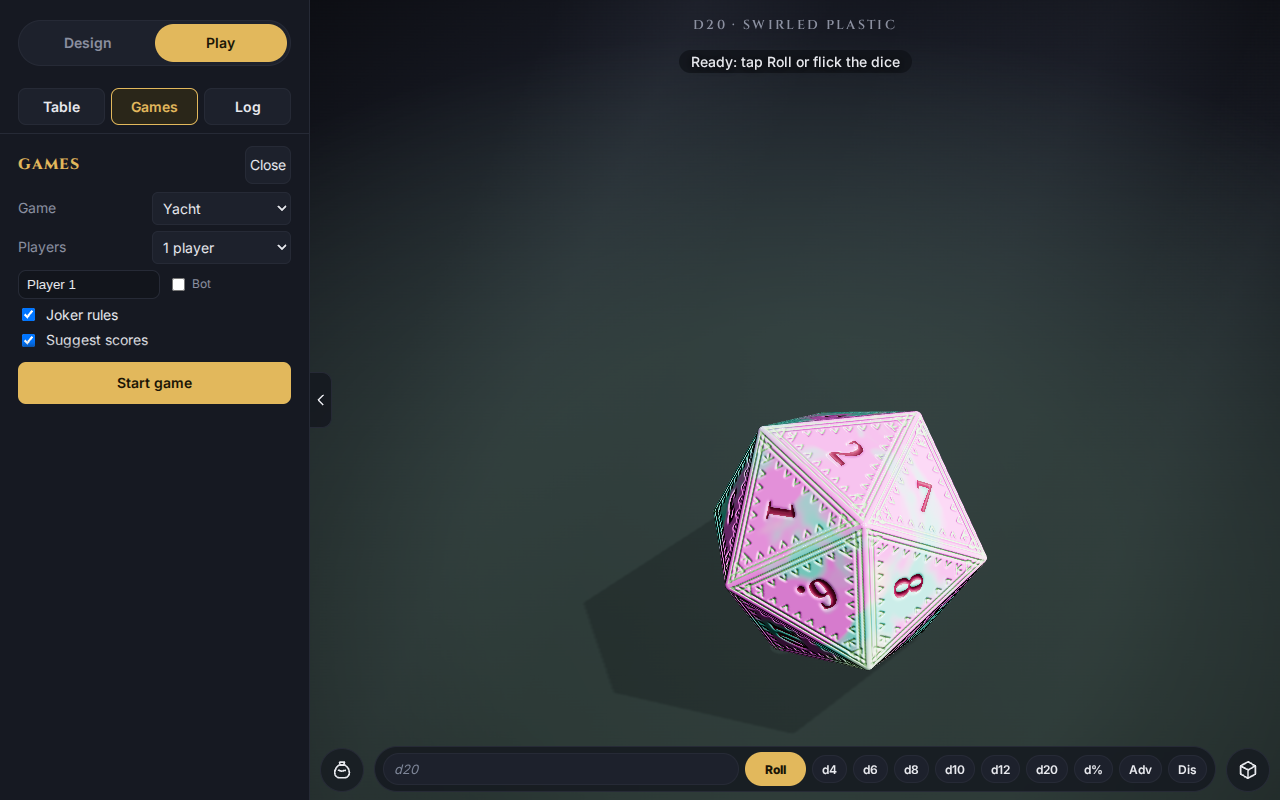
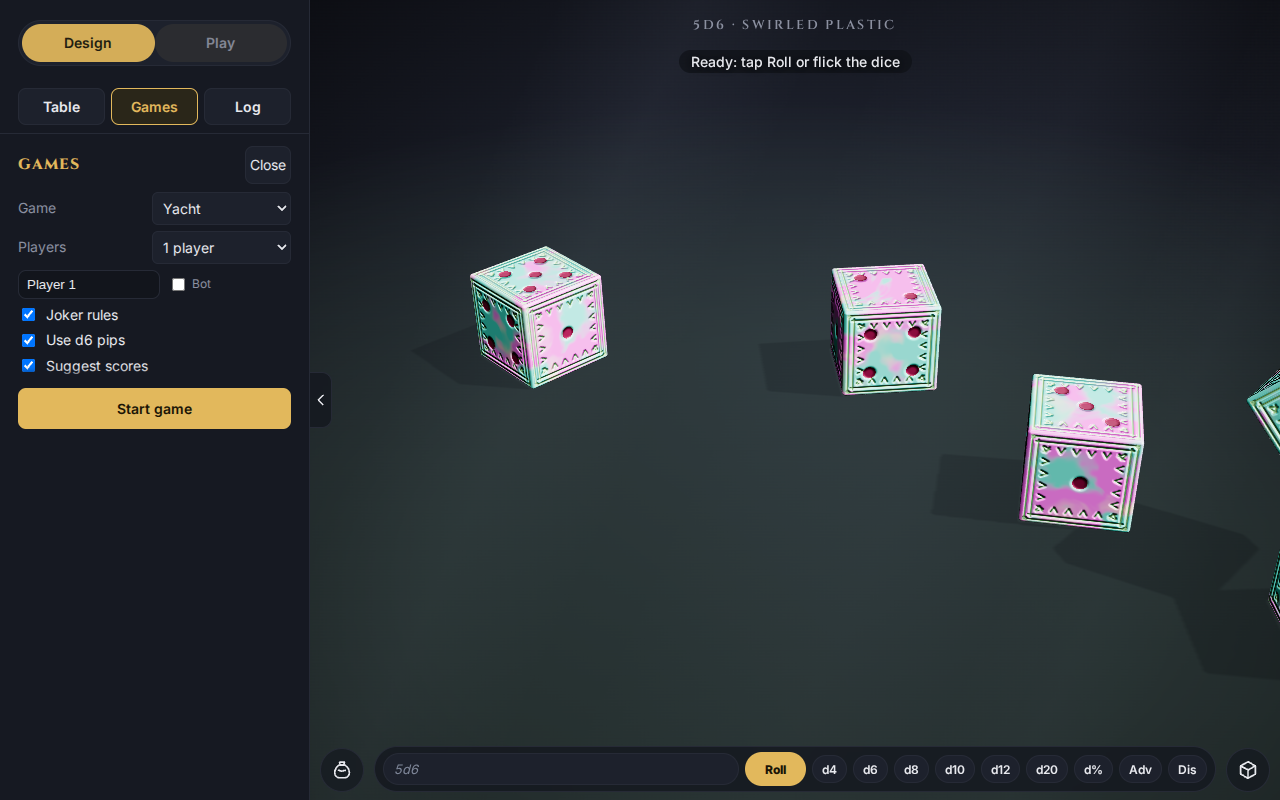
S6 (4.2 docs): guide pages 02/03/04/07/10, CHANGELOG 4.2 consolidated, re-shot Yacht/lobby/bag screenshots

diff --git a/docs/guide/10-games.md b/docs/guide/10-games.md
@@ -6,7 +6,7 @@ Pretty Dice can run a game for you with your own dice: it keeps score, suggests 
 
 ![The Games panel with Yacht set up](img/18-games-setup.png)
 
-Switch to the Play room and open the **Games** tab. Choose a **Game** (the game puts its own dice on the table, for example two d6 for Craps, and your dice come back when it ends), the number of **Players**, and press **Start game** (it stays in view at the bottom of the panel, so you never have to scroll for it). Each player can be named, and a **Bot** box next to a name makes that seat play itself. **Suggest scores** (on by default) shows hints; turn it off for a plain scorecard.
+Switch to the Play room and open the **Games** tab. Choose a **Game** (the game puts its own dice on the table, for example five d6 for Yacht, as soon as you pick it, and your dice come back when you leave the Games tab; see [Look and your designs](#look-and-your-designs)), the number of **Players**, and press **Start game** (it stays in view at the bottom of the panel, so you never have to scroll for it). Each player can be named, and a **Bot** box next to a name makes that seat play itself. **Use d6 pips** (on for Yacht, off for the other d6 games) shows your design with plain pips on the d6s. **Suggest scores** (on by default) shows hints; turn it off for a plain scorecard.
 
 | Game | Setup options |
 |---|---|
@@ -75,18 +75,24 @@ The dice stay movable while you arrange, and even after the rings are full, unti
 
 ### Look and your designs
 
-Story Dice uses a temporary **game look**: plain white dice with the pictures on them, so the glyphs read clearly. It never overwrites your designs. While the game look is on screen:
+Every game shows its own dice on the table the moment you pick it in the **Games** tab, before you press Start: five d6 for Yacht, one for Pig, five picture dice for Story Dice. **Roll** in that lobby rolls those dice in place, so you can try them, and you stay on the Games tab. Your own dice and design are untouched underneath.
 
-- The Bag shows your own design's picture, plus a dashed **Story Dice look (draft)** tile for the temporary one (the name is cut short in the tile).
+The lobby dice use a temporary **game look**, a draft for this game: for Story Dice a plain white look so the pictures read clearly; for the d6 games your own design with d6 pips (see **Use d6 pips** below). It never overwrites your designs. The Bag shows your own design plus a dashed draft tile (Yacht: "<design> pips"; Story: "Story Dice look") and the Bag header reads "draft for this game".
 
-![The Bag during a Story Dice game: your own design and the dashed Story Dice look (draft) tile](img/36-story-bag.png)
+![The Bag during a Story Dice game: your own design and the dashed Story Dice look tile, with Save as design and Discard in the header](img/36-story-bag.png)
 
-- Your design, any unsaved edits, your sets and Undo are untouched.
-- If you deliberately pick a design from the Bag, or press Randomize, mid-game, that choice is kept as your look afterwards. (Only the look changes; a running game keeps its dice.)
+The game look is a real draft you can work with:
 
-The game look stays on the table for as long as you are on the **Games** tab: after a game ends, or with a paused game and **Resume** after a reload. It is released, and your own dice and design come back exactly, when you pick another game or leave the Games tab (Table, Log, Design, or hide the panel). A game that is running keeps its dice wherever you go.
+- **Edit it** like any design in the Design room. It never shows as Modified, because it is already a draft.
+- **Save as design** (in the Bag header, or the tile's ⋯ menu) makes a new design with that look **and** a set with the game's dice that names it. It never overwrites one of your designs.
+- **Rename…** (tile menu) names the draft before you save it.
+- **Discard** (tile menu: "Discard (use my design)") drops the draft and shows your own design again.
+- Your design, unsaved edits, sets and Undo are untouched while the draft is on screen.
+- If you deliberately pick a design from the Bag, or press Randomize, mid-game, only the look changes (a running game keeps its dice), and that pick is kept as your look afterwards. In Yacht the pips follow the design you pick.
 
-Roll in the Story Dice lobby (selected but not started, or after a game) rolls the story dice in place: you stay on the Games tab and the dice keep their look. Leaving Games or choosing another game switches back to your own dice, and opening Games previews Story Dice again. A formula you type in the dock (say `2d6`) rolls on your own dice instead.
+**How long it lasts.** The game look stays for as long as you are on the **Games** tab: in the lobby, during the game, after it ends, and after a reload with a paused game and **Resume**. It is released, and your own dice and design come back exactly, when you pick another game or leave the Games tab (Table, Log, Design, or hide the panel). A game that is running keeps its dice wherever you go. Picking a set or typing a formula in the dock while a game is only in the lobby gives you your own dice back first. Roll with an empty box in the Story Dice lobby rolls the story dice; a typed formula (say `2d6`) rolls your own dice instead.
+
+**Use d6 pips.** Yacht, Ten Thousand, Pig and Liar's Dice have a **Use d6 pips** checkbox in their setup. It is **on for Yacht** and **off for the others**, and each game remembers your choice. Turning it on makes the draft "your design with d6 pips"; turning it off drops the draft and shows your design as it is. (If your design already has pips there is nothing to change, so no draft appears.)
 
 On a phone see [Phone versus desktop](08-phone-vs-desktop.md).
 

diff --git a/docs/guide/04-sets-and-editor.md b/docs/guide/04-sets-and-editor.md
@@ -12,7 +12,7 @@ Choose **Custom** under Shape. The **Custom set** section has:
 - **Shape buttons** (Design Look tab and Play Table tab work the same way, and never roll): a tap picks one die of that shape and collapses Custom set; a double-click or long press adds one die to the formula and opens Custom set so the whole formula shows.
 - **Adv** and **Dis** buttons: a click replaces the formula with advantage (`d20adv`, 2d20 keep the highest) or disadvantage (`d20dis`); a double-click or long press adds it to the formula instead.
 - **+ and −** for each die type, and a **Modifier**.
-- **Dice use**, when your bag has several designs: which design the + button adds.
+- **Dice use**, when your bag has several designs: which design the + button adds to the formula. (This is about the dice in the set. For the look the set brings when you pick it, see **Look** under [Sets and designs](#sets-and-designs).)
 
 ### What the notation accepts
 
@@ -57,6 +57,12 @@ Not understood yet: rerolls (`4d6r1`), exploding dice (`d20!`), and the words "a
 ## Save it as a set
 
 Type a name in the **Set name** box (under the Modifier row; empty, it shows the name a blank box would get) and press **Save as set** or Enter. This is a different box from the design **Name** in Save & export: that one names a design file. The **Sets** tab of the Bag view has two more ways, and both open the set editor on a **draft**: **Save the current dice as a set** pre-fills the draft with the dice on the table, and **New set** starts from an empty draft where you pick the dice yourself. A draft is not in the bag yet. Name it, set the dice, modifier and any result table, then press **Save** (or **Save this set**); the app confirms with "Saved <name> to the bag". Saving a draft with no dice says "Add at least one die first". Press ✕ (or Discard) to throw the draft away; if you changed it, you are asked to confirm. Saved sets live in the Bag view's **Sets** tab and also appear as chips in the dock at the table. Open the Bag view (the round Bag button) and its **Sets** tab, and use ⚡ to roll one, ✎ to edit it or ⋯ for Edit, Make a copy, Open, Move up/down and Delete. In the Play room, the Table tab lists saved sets too: tap one to load it, then press **Roll**. See [The bag and shelf](03-bag-and-shelf.md).
+
+## Sets and designs
+
+A design is a **look**: the colours, material, numbers and so on. A set is **dice**: which shapes, how many, plus a modifier. The two are kept apart, so **picking a design never changes your dice**; it only restyles them. A design does remember the dice it was saved with and offers them as a **Suggested** chip (for example `Suggested: d20` or `Suggested: 3d6+2`) next to the Shape heading in the Design room's Look tab. Tap it to use those dice; ignore it and your dice stay as they are. The chip is not shown when the dice already match, or while a game's dice are on the table.
+
+A set can also carry a look. Open a set (✎ in the Bag's **Sets** tab) and, when the bag has two or more designs, a **Look** row under the name lists **Keep my look** and your designs. **Keep my look** is the default and means the set leaves the look alone. Choose a design and picking the set (from the Bag, the Table tab or a quick-roll chip) restyles your dice with that design;. Dice in the set that name their own design with `@name` keep that design. The set list shows the linked design's small picture before the set's name. You can restyle afterwards by picking another design; rolling again with the formula box does not re-apply the set's look. Deleting a design removes the link from any set that used it. Story Dice sets do not have a Look row, because their `@design` already does that.
 
 ## Give a set a result table
 

diff --git a/CHANGELOG.md b/CHANGELOG.md
@@ -4,13 +4,21 @@ User-facing changes. Versions are git tags.
 
 ## 4.2 (unreleased)
 
+### Added
+- **Sets can carry a look.** In the set editor, a **Look** row (with two or more designs in the bag) names a design: picking the set brings that look, and **Keep my look** (the default) turns it off. The set list and the quick-roll chip show the linked design.
+- **Yacht: Use d6 pips.** Yacht shows your design with d6 pips as a draft for this game (save it as a design or discard it). A setup checkbox, **Use d6 pips**, turns it on or off; Ten Thousand, Pig and Liar's Dice offer it too, off by default. Pick another design mid-game and it keeps the pips; End game gives you your design back.
+
 ### Changed
-- **Designs are looks.** Picking a design no longer changes your dice; a Suggested chip offers the design's dice.
-- **Sets can carry a look.** A set can name a design: picking the set brings that look; Keep my look turns it off.
-- **Dice settle without wiggling at the default gravity too.** A die rocking on an edge now topples to flat instead of rocking or freezing leaning.
-- **Every game shows its own dice in the lobby and rolls them in place.** Fixes: picking a design or set in the Story lobby no longer loses your dice, and a reload mid-Yacht keeps your dice.
-- **The game look is a real draft.** In the Bag, the Story Dice look is a dashed draft you can pick, edit, rename and discard. **Save as design** makes a design with that look and a set with the game's dice that names it. It never overwrites a design. A reload mid-game brings it back on Resume.
-- **Yacht: Use d6 pips.** Yacht shows your design with d6 pips (a draft for this game: save it as a design or discard it). A setup checkbox, `Use d6 pips`, turns it on or off, and every other d6 game offers it too, off by default. Pick another design mid-game and it keeps the pips; End game gives you your design back.
+- **Designs are looks.** Picking a design (or a set) no longer changes your dice; it only restyles them. A design remembers the dice it was saved with and offers them as a **Suggested** chip (for example `Suggested: d20` or `Suggested: 3d6+2`) in the Design room; tap it to use them. This replaces the 3.0 behaviour where every design kept its own shape and numbers.
+- **Every game shows its dice in the lobby.** Opening a game's setup puts its dice on the table, and Roll in the lobby rolls them in place. Leaving Games or choosing another game gives you your own dice back. Picking a design or set in the Story Dice lobby no longer loses your dice.
+- **The game look is a real draft.** The game look is a dashed draft in the Bag that you can pick, edit, rename and discard. **Save as design** makes a design with that look plus a set with the game's dice that names it, and never overwrites a design. A reload mid-game brings it back on Resume.
+- **Dice sleep sooner and cocked dice topple at default gravity and above.** A die rocking on an edge now falls flat instead of rocking or freezing leaning, and flat dice stop moving about 0.1 s after they are all slow.
+
+### Fixed
+- Picking a design in the Story Dice lobby, or pressing Randomize there, no longer leaves the story dice as your own dice.
+- Picking a set while a game's dice are shown in the lobby no longer brings back stale dice when you leave.
+- A reload in the middle of a Yacht game now gives you your own dice back when the game ends.
+- Reloading while a game look or an unsaved random draft is on screen brings the draft back as the draft, not as a loose edit of your design.
 
 ## 4.1 (2026-11-21)
 

diff --git a/docs/guide/02-designing-a-die.md b/docs/guide/02-designing-a-die.md
@@ -1,6 +1,6 @@
 # Designing a die
 
-Everything here is in the **Look** tab of the side panel in the Design room. Changes show immediately and can be undone with Ctrl+Z. Each design in the bag remembers its own look. The controls below the shape are sorted into three sections: **Base** (the die body: substrate, colours, stone, epoxy, face panel and patina), **Numbers** (the face decoration: numeral paint, font, size, relief style, then filigree) and **Showcase** (spin speed, then Save & export).
+Everything here is in the **Look** tab of the side panel in the Design room. Changes show immediately and can be undone with Ctrl+Z. Each design in the bag remembers its own look, and the dice it was saved with: they show as a **Suggested** chip next to Shape, and switching designs never changes your dice. The controls below the shape are sorted into three sections: **Base** (the die body: substrate, colours, stone, epoxy, face panel and patina), **Numbers** (the face decoration: numeral paint, font, size, relief style, then filigree) and **Showcase** (spin speed, then Save & export).
 
 ## Shape
 

diff --git a/docs/guide/07-save-load.md b/docs/guide/07-save-load.md
@@ -9,7 +9,7 @@ The picture and single-design items are in **Save & export** at the bottom of th
 | What | How |
 |---|---|
 | A picture of the current die | Pick a **Size** (current view, 1024, 2048 or 4096 px), then **PNG** or **JPG**. |
-| One design | Give it a **Name**, then **Save design**. **Load design** reads one back. |
+| One design | Give it a **Name**, then **Save design**. **Load design** reads one back: you get its look, and the dice it was saved with are offered as a **Suggested** chip rather than changing your dice. |
 | The whole bag | **Save bag** writes a file; **Load bag** replaces this bag with a file. **Copy bag JSON** puts it on the clipboard. |
 | Add a design without replacing the bag | Shelf **Add** > **From a file…** |
 

diff --git a/docs/guide/03-bag-and-shelf.md b/docs/guide/03-bag-and-shelf.md
@@ -1,6 +1,6 @@
 # The bag and shelf
 
-Your **bag** holds all your designs. The **shelf** along the bottom of the table (in the Design room) shows them as small pictures; tap one to switch to it. The panel header says which one you are on ("Design 1, 1 of 1 in My bag").
+Your **bag** holds all your designs. The **shelf** along the bottom of the table (in the Design room) shows them as small pictures; tap one to switch to it. Switching only changes the look; your dice stay as they are (see [Sets and designs](04-sets-and-editor.md#sets-and-designs)). The panel header says which one you are on ("Design 1, 1 of 1 in My bag").
 
 ## Adding a design
 
